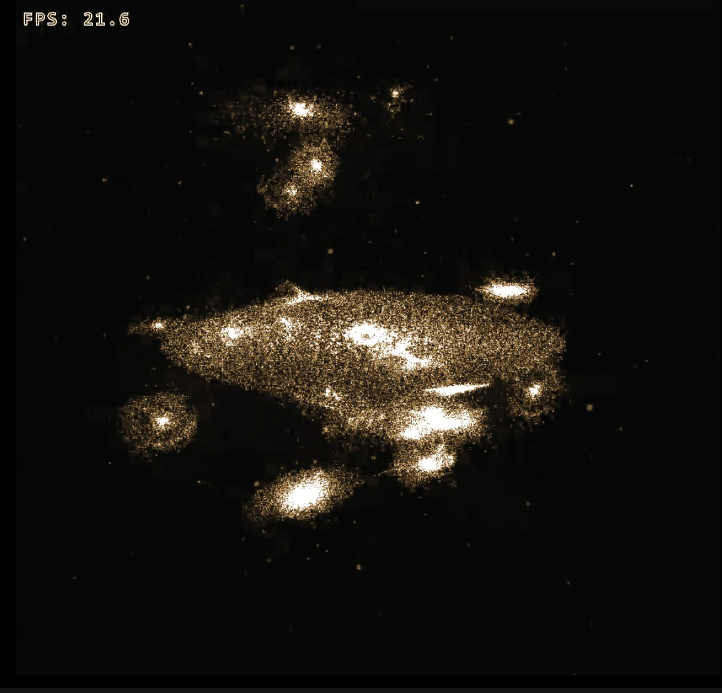
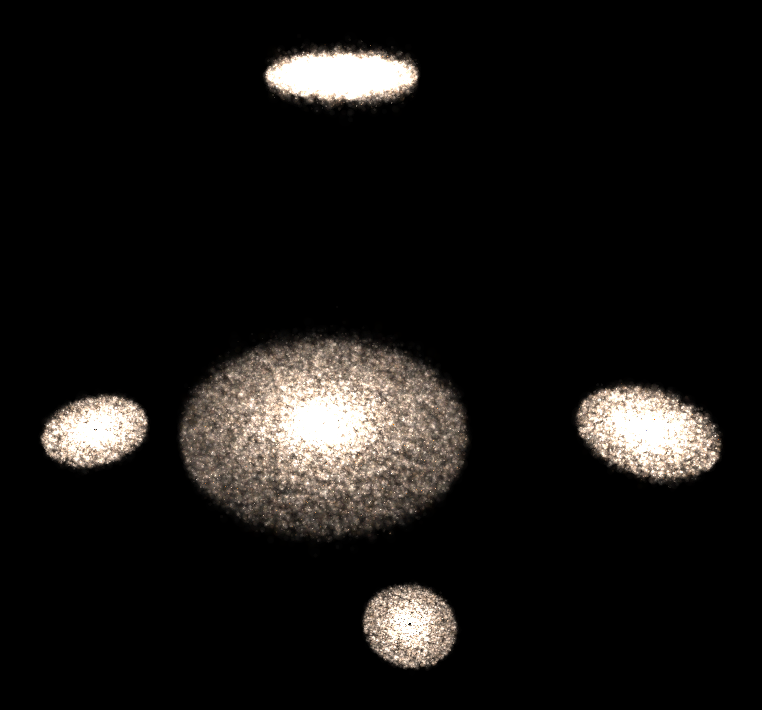
Use the hierarchical node-glow merger as the landing-page still.
The old figure was a per-star glow capture. On the scaled merger, opaque impostors and per-star glow disappear at true stellar radii, intensity 0.001 goes dim, and intensities around 0.008 and up clip the disks white. Default node glow (0.003, depth 8, 16px, body distance 1000) keeps the star grain, so the merger preset and the page figure use that.

Request an OpenGL 4.5 context and ARB 64-bit integers so the same shaders compile on llvmpipe. MediaCapture restores settings.json after a sweep because unit upload saves the whole file.

diff --git a/website/index.html b/website/index.html
@@ -24,7 +24,7 @@
 
   <main id="content">
     <div class="wrap">
-      <p class="kicker" id="top">GLSL compute · Java / LWJGL · OpenGL 4.6</p>
+      <p class="kicker" id="top">GLSL compute · Java / LWJGL · OpenGL 4.5</p>
       <h1>Barnes–Hut, one frame on the GPU.</h1>
       <p class="lede">GravityChunk is an n-body simulation. Compute shaders sort the bodies, build the tree, integrate the forces, and merge. Java opens the window and builds the starting scene.</p>
       <div class="actions">
@@ -40,10 +40,10 @@
       </ul>
 
       <figure class="plate">
-        <img src="images/capture.png" width="722" height="693" alt="GravityChunk window showing a dense amber field of stars from a galaxy run, with an FPS readout of 21.6 in the corner.">
+        <img src="images/capture.png" width="762" height="710" alt="Scaled galaxy merger: one large amber disk and four smaller companions, rendered with hierarchical node glow on a black background.">
         <figcaption>
-          <span>Fig. 01 — Desktop capture</span>
-          <span>The simulation runs in this window.</span>
+          <span>Fig. 01 — Scaled merger</span>
+          <span>Hierarchical node glow, scaled merger preset.</span>
         </figcaption>
       </figure>
 
@@ -228,7 +228,7 @@
         <ul class="reqs">
           <li>Windows 10 or 11, 64-bit</li>
           <li>NVIDIA GPU and a current driver</li>
-          <li>The window requests an OpenGL 4.6 compatibility context</li>
+          <li>The window requests an OpenGL 4.5 compatibility context</li>
           <li>JDK 17 or newer, and Maven, to build from source</li>
         </ul>
         <p>The compute shaders are GLSL 4.30 and enable <code>GL_NV_gpu_shader5</code> so Morton codes can be 64-bit integers. CUDA is not part of the build. LWJGL natives in the project are the Windows set.</p>

diff --git a/src/test/java/com/grumbo/MediaCapture.java b/src/test/java/com/grumbo/MediaCapture.java
@@ -1,0 +1,137 @@
+package com.grumbo;
+
+import java.nio.ByteBuffer;
+import java.nio.file.Files;
+import java.nio.file.Path;
+
+import org.joml.Vector3f;
+import org.lwjgl.stb.STBImageWrite;
+
+import com.grumbo.simulation.GPUSimulation;
+import com.grumbo.simulation.Render;
+import com.grumbo.simulation.Settings;
+import com.grumbo.simulation.SimulationSetup;
+
+/**
+ * Renders the scaled galaxy-merger layout once, then writes stills for the
+ * render modes that have been used for the landing page.
+ *
+ * <p>The physics step is shared. Later stills only change render settings and
+ * the camera. Body count is {@code GRAVITY_BODY_SCALE} times the scaled merger
+ * (default 0.05). Output directory is {@code GRAVITY_MEDIA_DIR} or
+ * {@code captures/media}.
+ *
+ * <p>The landing-page still is the scaled merger ({@code GRAVITY_BODY_SCALE=1}),
+ * elevation 42°, azimuth 18°, distance 1000, mode {@code node-default}
+ * (impNodeGlow, intensity 0.003, body distance 1000, depth 8, theta 16px),
+ * cropped to the galaxies.
+ *
+ * <p>{@code BarnesHut.updateUnits} writes settings.json. This tool restores that file on exit.
+ */
+public final class MediaCapture {
+    private MediaCapture() {}
+
+    public static void main(String[] args) throws Exception {
+        // BarnesHut.updateUnits saves the whole settings file. Snapshot and restore it.
+        Path settingsFile = Path.of("src/main/resources/settings/settings.json");
+        byte[] savedSettings = Files.exists(settingsFile) ? Files.readAllBytes(settingsFile) : null;
+        try {
+            run();
+        } finally {
+            if (savedSettings != null) {
+                Files.write(settingsFile, savedSettings);
+            }
+        }
+    }
+
+    private static void run() throws Exception {
+        float scale = Float.parseFloat(System.getenv().getOrDefault("GRAVITY_BODY_SCALE", "0.05"));
+        Path outDir = Path.of(System.getenv().getOrDefault("GRAVITY_MEDIA_DIR", "captures/media"));
+        Files.createDirectories(outDir);
+
+        Settings settings = Settings.getInstance();
+        settings.setWidth(1000);
+        settings.setHeight(1000);
+        settings.setDt(0f);
+        settings.setTheta(0.77f);
+        settings.setCameraScale(0.2f);
+        settings.setShowRegions(false);
+        settings.setDynamic("static");
+        settings.setMergingCollisionOrNeither("none");
+        settings.setNodeGlowActivateDist(0f);
+        settings.setMinImpostorSize(1.0E-5f);
+        settings.setFov(70f);
+        settings.setRenderMode("impNodeGlow");
+
+        SimulationSetup setup = new SimulationSetup();
+        int center = Math.max(200, Math.round(80_000 * scale));
+        int sat = Math.max(80, Math.round(25_000 * scale));
+        setup.addDisk(center, 0, 0, 0, 1000, 0.5f, 1f, 200_000f);
+        setup.addDisk(sat, 2000, 500, 0, 400, 0.5f, 1f, 1_000_000f);
+        setup.addDisk(sat, -1800, -400, 200, 400, 0.5f, 1f, 1_000_000f);
+        setup.addDisk(sat, 0, 2200, -300, 400, 0.5f, 1f, 1_000_000f);
+        setup.addDisk(sat, 800, -2000, 100, 400, 0.5f, 1f, 1_000_000f);
+        System.out.println("Media scene bodies≈" + setup.totalBodies() + " bounds=" + setup.suggestedSquareBounds());
+
+        GPUSimulation sim = new GPUSimulation(
+            setup.buildGenerator(),
+            setup.suggestedSquareBounds(),
+            Render.RenderMode.IMPOSTOR_WITH_NODE_GLOW,
+            false
+        );
+
+        // Disks lie in the XZ plane. Elevation is degrees above that plane.
+        float elev = (float) Math.toRadians(Double.parseDouble(System.getenv().getOrDefault("GRAVITY_ELEV_DEG", "42")));
+        float az = (float) Math.toRadians(Double.parseDouble(System.getenv().getOrDefault("GRAVITY_AZ_DEG", "18")));
+        Vector3f viewDir = new Vector3f(
+            (float) (Math.cos(elev) * Math.sin(az)),
+            (float) Math.sin(elev),
+            (float) (Math.cos(elev) * Math.cos(az))
+        ).normalize();
+        float[] distances = parseFloats(System.getenv().getOrDefault("GRAVITY_DISTS", "1300,900,700"));
+        Still[] stills = {
+            new Still("node-default", "impNodeGlow", 1000f, 0.003f, 8, 16f),
+            new Still("node-filled", "impNodeGlow", 40f, 0.008f, 10, 24f),
+            new Still("node-fine", "impNodeGlow", 20f, 0.02f, 6, 12f),
+            new Still("node-hero", "impNodeGlow", 35f, 0.012f, 8, 18f),
+        };
+
+        try {
+            sim.beginCapture(1);
+            int w = sim.captureWidth();
+            int h = sim.captureHeight();
+            for (float dist : distances) {
+                Vector3f eye = new Vector3f(viewDir).mul(dist);
+                settings.setCameraPos(eye);
+                settings.setCameraFront(new Vector3f(eye).negate().normalize());
+                settings.setCameraUp(new Vector3f(0f, 1f, 0f));
+                for (Still still : stills) {
+                    settings.setRenderMode(still.mode);
+                    settings.setBodyRenderDistance(still.bodyDist);
+                    settings.setNodeGlowIntensity(still.intensity);
+                    settings.setNodeGlowMaxDepth(still.depth);
+                    settings.setNodeGlowThetaPx(still.thetaPx);
+                    ByteBuffer rgba = sim.renderStillRgba();
+                    String name = String.format("%s_d%.0f.png", still.name, dist);
+                    Path file = outDir.resolve(name);
+                    STBImageWrite.stbi_flip_vertically_on_write(true);
+                    boolean ok = STBImageWrite.stbi_write_png(file.toString(), w, h, 4, rgba, w * 4);
+                    System.out.println((ok ? "wrote " : "FAILED ") + file.toAbsolutePath());
+                }
+            }
+        } finally {
+            sim.endCapture();
+        }
+    }
+
+    private static float[] parseFloats(String text) {
+        String[] parts = text.split(",");
+        float[] out = new float[parts.length];
+        for (int i = 0; i < parts.length; i++) {
+            out[i] = Float.parseFloat(parts[i].trim());
+        }
+        return out;
+    }
+
+    private record Still(String name, String mode, float bodyDist, float intensity, int depth, float thetaPx) {}
+}

diff --git a/src/main/java/com/grumbo/simulation/GPUSimulation.java b/src/main/java/com/grumbo/simulation/GPUSimulation.java
@@ -13,10 +13,14 @@ import java.time.LocalDateTime;
 import java.time.format.DateTimeFormatter;
 
 import com.grumbo.debug.Debug;
+import com.grumbo.record.GLFrameCapture;
 import com.grumbo.record.Recording;
 import com.grumbo.gpu.SSBO;
 import com.grumbo.gpu.GPUCommands;
+import static org.lwjgl.glfw.GLFW.glfwPollEvents;
 import static org.lwjgl.opengl.GL43.*;
+
+import java.nio.ByteBuffer;
 import com.grumbo.gpu.GPU;
 /**
  * GPUSimulation class for the GPU simulation.
@@ -649,6 +653,62 @@ public class GPUSimulation {
     // public ArrayList<Planet> getPlanets() {
     //     return planets;
     // }
+
+    /**
+     * Opens the window, uploads bodies, and integrates {@code physicsSteps} steps.
+     * Leaves the simulation paused so later frames can change render settings
+     * without moving the bodies. The caller must {@link #endCapture()}.
+     */
+    public void beginCapture(int physicsSteps) {
+        init();
+        glfwPollEvents();
+        state = State.RUNNING;
+        for (int i = 0; i < physicsSteps; i++) {
+            long t0 = System.nanoTime();
+            glClearColor(0f, 0f, 0f, 1f);
+            glClear(GL_COLOR_BUFFER_BIT | GL_DEPTH_BUFFER_BIT);
+            step();
+            glFinish();
+            System.out.println("capture physics step " + (i + 1) + " in "
+                + ((System.nanoTime() - t0) / 1_000_000L) + " ms, simSteps=" + getSteps());
+        }
+        state = State.PAUSED;
+    }
+
+    /**
+     * Draws the current frame with no UI and returns tightly packed RGBA, origin at the bottom left.
+     */
+    public ByteBuffer renderStillRgba() {
+        int[] viewport = new int[4];
+        glGetIntegerv(GL_VIEWPORT, viewport);
+        glClearColor(0f, 0f, 0f, 1f);
+        glClear(GL_COLOR_BUFFER_BIT | GL_DEPTH_BUFFER_BIT);
+        step();
+        glFinish();
+        ByteBuffer rgba = GLFrameCapture.readBackbufferRGBA(0, 0, viewport[2], viewport[3]);
+        rgba.rewind();
+        return rgba;
+    }
+
+    public int captureWidth() {
+        int[] viewport = new int[4];
+        glGetIntegerv(GL_VIEWPORT, viewport);
+        return viewport[2];
+    }
+
+    public int captureHeight() {
+        int[] viewport = new int[4];
+        glGetIntegerv(GL_VIEWPORT, viewport);
+        return viewport[3];
+    }
+
+    /**
+     * Destroys the capture window. GLFW is terminated.
+     */
+    public void endCapture() {
+        stop();
+        openGlWindow.close();
+    }
 
     /* --------- Recording control --------- */
     /**

diff --git a/src/main/java/com/grumbo/simulation/OpenGLWindow.java b/src/main/java/com/grumbo/simulation/OpenGLWindow.java
@@ -55,9 +55,10 @@ public class OpenGLWindow {
         glfwDefaultWindowHints();
         glfwWindowHint(GLFW_VISIBLE, GLFW_FALSE);
         glfwWindowHint(GLFW_RESIZABLE, GLFW_TRUE);
-        // Set the OpenGL context version to 4.6
+        // Shaders are GLSL 430. 4.5 is the highest compatibility profile llvmpipe exposes,
+        // and NVIDIA drivers that can do 4.6 also provide 4.5.
         glfwWindowHint(GLFW_CONTEXT_VERSION_MAJOR, 4);
-        glfwWindowHint(GLFW_CONTEXT_VERSION_MINOR, 6);
+        glfwWindowHint(GLFW_CONTEXT_VERSION_MINOR, 5);
         // Set the OpenGL profile to COMPAT to allow for legacy OpenGL features.
         glfwWindowHint(GLFW_OPENGL_PROFILE, GLFW_OPENGL_COMPAT_PROFILE);
         glfwWindowHint(GLFW_OPENGL_FORWARD_COMPAT, GLFW_FALSE);
@@ -159,6 +160,13 @@ public class OpenGLWindow {
         info += "Camera front: " + Settings.getInstance().getCameraFront().x + ", " + Settings.getInstance().getCameraFront().y + ", " + Settings.getInstance().getCameraFront().z + "\n";
         return info;
 
+    }
+
+    /**
+     * Destroys the window and tears down GLFW. Safe to call once.
+     */
+    public void close() {
+        cleanup();
     }
 
     /**

diff --git a/src/main/java/com/grumbo/simulation/SimulationSetup.java b/src/main/java/com/grumbo/simulation/SimulationSetup.java
@@ -422,11 +422,14 @@ public class SimulationSetup {
             this.renderMode = renderMode;
         }
 
-        /** Tuned defaults for galaxy merger presets (scaled and full). */
+        /**
+         * Merger preset glow: intensity 0.003, body draw distance 1000.
+         * A wide shot of the scaled merger keeps star grain at these values.
+         */
         public static SuggestedSettings mergerDefaults() {
             return new SuggestedSettings(
                 500_000f, 0.77f, 0.2f,
-                0.001f, 50f, "impNodeGlow"
+                0.003f, 1000f, "impNodeGlow"
             );
         }
 

diff --git a/src/main/java/com/grumbo/UI/SetupScreen.java b/src/main/java/com/grumbo/UI/SetupScreen.java
@@ -117,7 +117,7 @@ public final class SetupScreen {
         glfwWindowHint(GLFW_VISIBLE, GLFW_FALSE);
         glfwWindowHint(GLFW_RESIZABLE, GLFW_TRUE);
         glfwWindowHint(GLFW_CONTEXT_VERSION_MAJOR, 4);
-        glfwWindowHint(GLFW_CONTEXT_VERSION_MINOR, 6);
+        glfwWindowHint(GLFW_CONTEXT_VERSION_MINOR, 5);
         glfwWindowHint(GLFW_OPENGL_PROFILE, GLFW_OPENGL_COMPAT_PROFILE);
         glfwWindowHint(GLFW_OPENGL_FORWARD_COMPAT, GLFW_FALSE);
 
